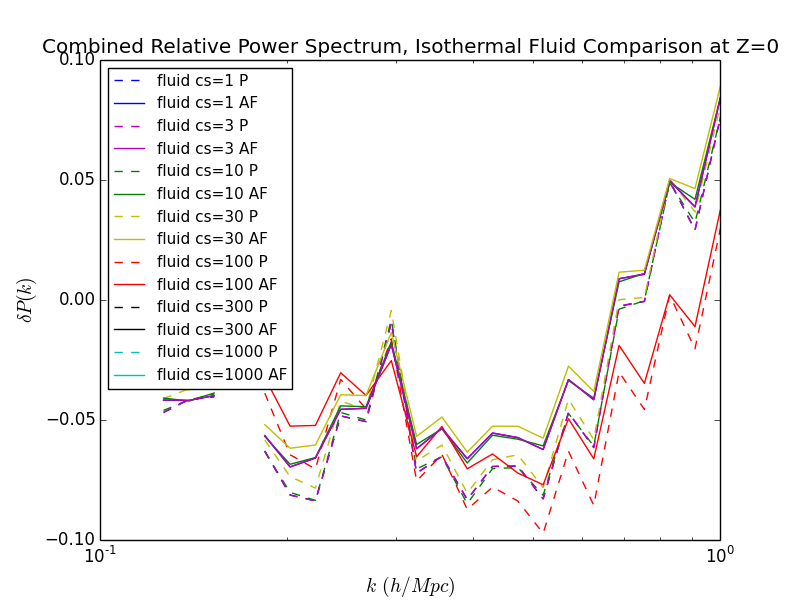
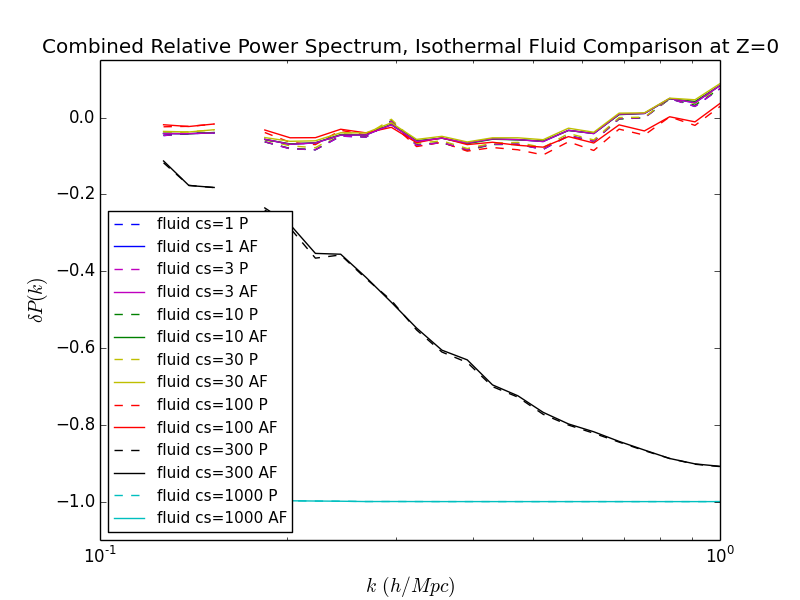
Included high speed runs in axes for consistency.

diff --git a/plots/isothermal/isothermal_fluid_normalized_combined.py b/plots/isothermal/isothermal_fluid_normalized_combined.py
@@ -34,7 +34,7 @@ hl = sorted(zip(handles, labels), key=lambda item:  int(item[1].split(' ')[1].sp
 handles2, labels2 = zip(*hl)
 
 plt.xlim([1e-1,1e0])
-plt.ylim([-0.1,0.1])
+plt.ylim([-1.1,0.15])
 plt.xlabel('$k \, (h/Mpc)$', fontsize=14)
 plt.ylabel('$\delta P(k)$', fontsize=14)
 plt.title('Combined Relative Power Spectrum, Isothermal Fluid Comparison at Z=0')
